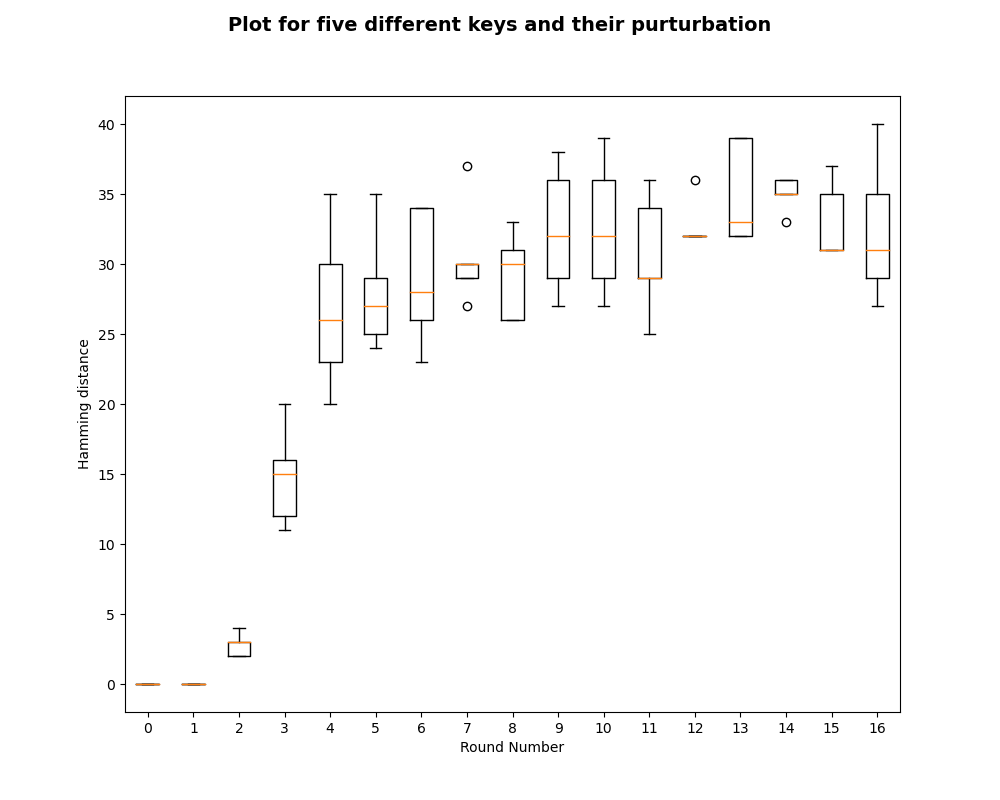
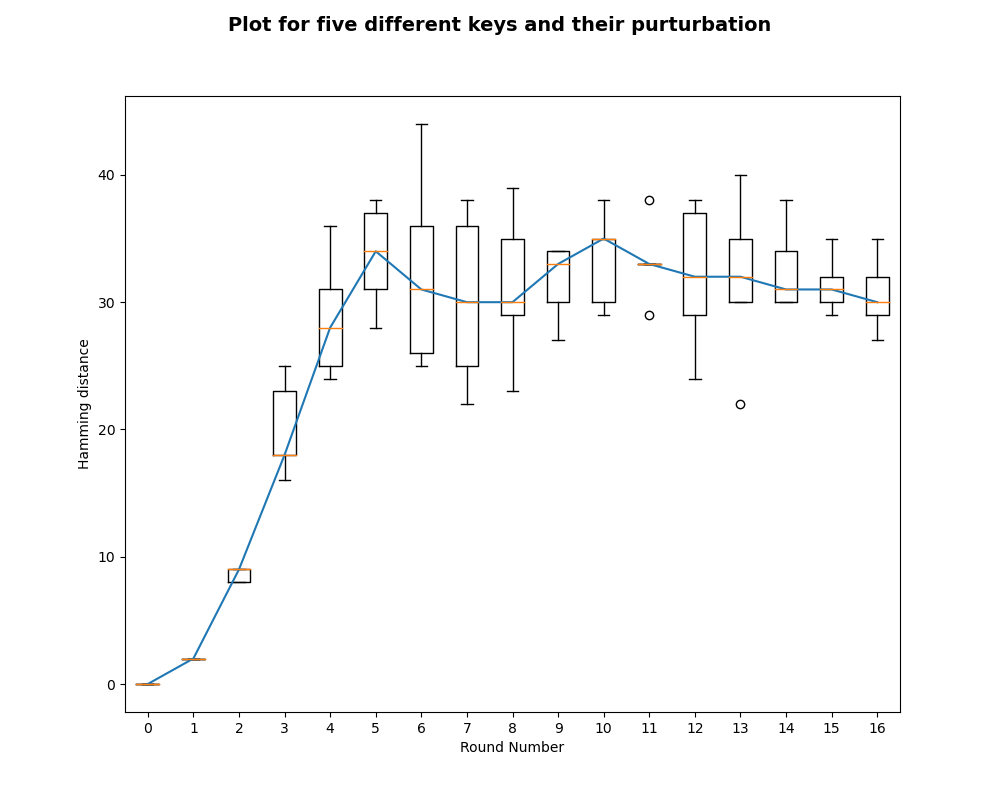
medians connected

diff --git a/Practical_Assignment_2/des.py b/Practical_Assignment_2/des.py
@@ -599,11 +599,13 @@ def generate_random_string(length):
 
 # function to flip "amount" bits in a string
 def perturb_string(string, amount):
+    string=string[::-1]
     perturbedString = ""
     for i in range(len(string)):
         if i<amount: 
-            perturbedString += chr(ord(string[i]) ^ 2)
+            perturbedString += chr(ord(string[i]) ^ 8)
         else: perturbedString += string[i]
+    perturbedString=perturbedString[::-1]
     return perturbedString
 
 # calculate hamming distance between bit strings
@@ -621,6 +623,8 @@ def generate_plot(HD,title,initial_distances):
     HD_RoundWise=[initial_distances,]+list(zip(*HD))
     fig = plt.figure(figsize=(10, 8))                           
     plt.boxplot(HD_RoundWise,positions=[l for l in range(0,17)])
+    medians= [ statistics.median(HD_current) for HD_current in HD_RoundWise]
+    plt.plot(medians)
     fig.suptitle("Plot for "+title, fontsize=14, fontweight='bold')
     plt.xlabel('Round Number')
     plt.ylabel('Hamming distance')
@@ -671,6 +675,7 @@ def perform_experiment(change_plain_text,change_key,change_hamming_distance,expe
 
 import string
 import random
+import statistics
 import matplotlib.pyplot as plt
 
 
